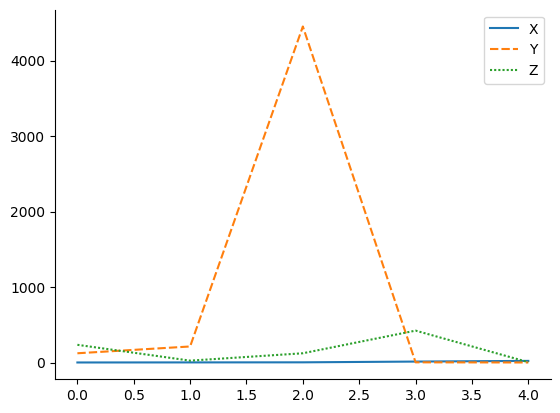
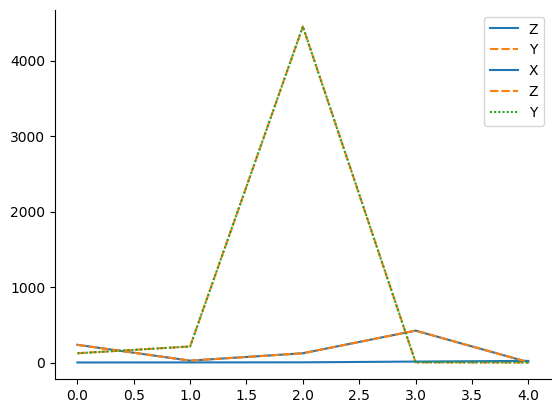
绘图前后端结合

diff --git a/program.py b/program.py
@@ -5,7 +5,7 @@
 @Author: xiaoshuyui
 @Date: 2020-04-16 15:40:21
 @LastEditors: xiaoshuyui
-@LastEditTime: 2020-04-21 09:52:08
+@LastEditTime: 2020-04-21 10:25:56
 '''
 from PyQt5 import QtWidgets,QtCore,QtGui
 from PyQt5.QtWidgets import QMainWindow,QApplication,QAction,QFileDialog,QInputDialog,QMessageBox, \
@@ -122,6 +122,7 @@ class UI(QMainWindow,):
         self.main_toolbar.addAction(self.set_default_openPage_button)
         self.main_toolbar.addAction(self.set_data_button)
         self.main_toolbar.addAction(self.set_store_button)
+        #测试按钮
         self.main_toolbar.addAction(self.set_test_button)
         
 
@@ -140,6 +141,8 @@ class UI(QMainWindow,):
         #DIY
         self.set_default_openPage_button.triggered.connect(self.defaultPage)
         self.set_data_button.triggered.connect(self.anaData)
+        self.set_store_button.triggered.connect(self.showFavs)
+        #测试按钮
         self.set_test_button.triggered.connect(self.test)
         #回车事件判断
         self.url_edit.returnPressed.connect(self.inputTurn)
@@ -185,6 +188,18 @@ class UI(QMainWindow,):
 
        
 
+    def showFavs(self):
+        """
+        显示收藏的网页
+        """
+        menu = QMenu()
+        vDict = locals()
+        s = len(self.favWebs)
+        if s>0:
+            for i in range(0,s):
+                vDict['x'+str(i)] = menu.addAction(self.favWebs[i])
+                vDict['x'+str(i)].triggered.connect(self.favWebTurn)      
+        menu.exec_(QCursor.pos())
 
 
 
@@ -228,13 +243,9 @@ class UI(QMainWindow,):
                 menu = QMenu()
                 b4 = menu.addAction("收藏网页")
                 b5 = menu.addAction("设为默认...")
-                # b2 = menu.addAction("修改Y轴名")
-                # b3 = menu.addAction("关于...")
 
                 b4.triggered.connect(self.b4Clicked)
                 b5.triggered.connect(self.b5Clicked)
-                # b1.triggered.connect(self.b1Clicked)
-                # b2.triggered.connect(self.b2Clicked)
                 menu.exec_(QCursor.pos())
 
     
@@ -249,9 +260,6 @@ class UI(QMainWindow,):
         text, ok=QInputDialog.getText(self, 'Text Input Dialog', '输入需要修改的Y轴名：')
 
     def b4Clicked(self):
-        # text, ok=QInputDialog.getText(self, 'Text Input Dialog', '输入需要修改的Y轴名：')
-        # pass
-        # print(self.url_edit.text())
         ss = set(self.favWebs)
         ss.add(self.url_edit.text())
         self.favWebs = list(ss)
@@ -282,12 +290,8 @@ class UI(QMainWindow,):
 
 
 
-        
-
-        
-
-
     def anaData(self):
+        # ps = []
         # import time
         """
         数据分析
@@ -324,7 +328,22 @@ class UI(QMainWindow,):
             options = readColumn(fileName_choose,sheetName='Sheet1')
             ps,formType = self.showDialog(options)
         
-        
+        ps = list(set(ps))
+        # print(ps)
+        print(ps)
+        if len(ps)>0 :
+            figurePath = plotFigure(fileName_choose,sheetName,ps,formType)
+
+            from utils.webTest import check_aliveness
+            result = check_aliveness('127.0.0.1',5000)
+            if result:
+                import requests
+                url = 'http://localhost:5000/showImg'
+                img = '?imgName='+figurePath
+                self.browser.setUrl(QtCore.QUrl( url+img))
+            else:
+                QMessageBox.warning(self, "警告对话框", "服务器未启动", QMessageBox.Yes )
+            
 
         
 

diff --git a/utils/analyse.py b/utils/analyse.py
@@ -5,7 +5,7 @@
 @Author: xiaoshuyui
 @Date: 2020-04-17 08:58:31
 @LastEditors: xiaoshuyui
-@LastEditTime: 2020-04-20 10:59:18
+@LastEditTime: 2020-04-21 10:29:30
 '''
 
 import numpy as np 
@@ -15,7 +15,7 @@ import seaborn as sns
 import os
 # from myError import SheetNotFoundError,SheetReadError
 # from .myError import SheetNotFoundError,SheetReadError
-from PyQt5.QtWidgets import QWidget
+# from PyQt5.QtWidgets import QWidget
 
 def readColumn(path:str,sheetName):
     params = []
@@ -51,16 +51,18 @@ def plotFigure(path:str,sheetName:str,column:list=[],figure:str=""):
     d = []
     if len(column)>0:
         for i in column:
-            d.append(i)
-            sns.lineplot( data=d)
-            sns.despine()
+            d.append(df[i])
+        sns.lineplot( data=d)
+        sns.despine()
             # filePath = path.split('/')
-            filePath = os.path.abspath(os.path.join(os.path.dirname(path),os.path.pardir))
+        filePath = os.path.abspath(os.path.join(os.path.dirname(path),os.path.pardir))
             # print(filePath)
-            figurePath = filePath + os.sep + 'static'+os.sep +"test.png"
+        figurePath = filePath + os.sep + 'static'+os.sep +"test.png"
             # plt.show()
-            plt.savefig(figurePath, bbox_inches='tight')
-            return figurePath
+        if  os.path.exists(figurePath):
+            os.remove(figurePath)
+        plt.savefig(figurePath, bbox_inches='tight')
+        return figurePath
                 
     else:
         sns.lineplot( data=df)

diff --git a/utils/webTest.py b/utils/webTest.py
@@ -1,0 +1,24 @@
+'''
+@lanhuage: python
+@Descripttion: 
+@version: beta
+@Author: xiaoshuyui
+@Date: 2020-04-21 10:03:55
+@LastEditors: xiaoshuyui
+@LastEditTime: 2020-04-21 10:10:40
+'''
+
+import socket
+def check_aliveness(ip, port):
+    sk = socket.socket(socket.AF_INET, socket.SOCK_STREAM)
+    sk.settimeout(2)
+    try:
+        sk.connect((ip,port))
+        # print ('server %s %d service is OK!' %(ip,port))
+        return True
+    except Exception:
+        # print 'server %s %d service is NOT OK!'  %(ip,port)
+        return False
+    finally:
+        sk.close()
+    return False
